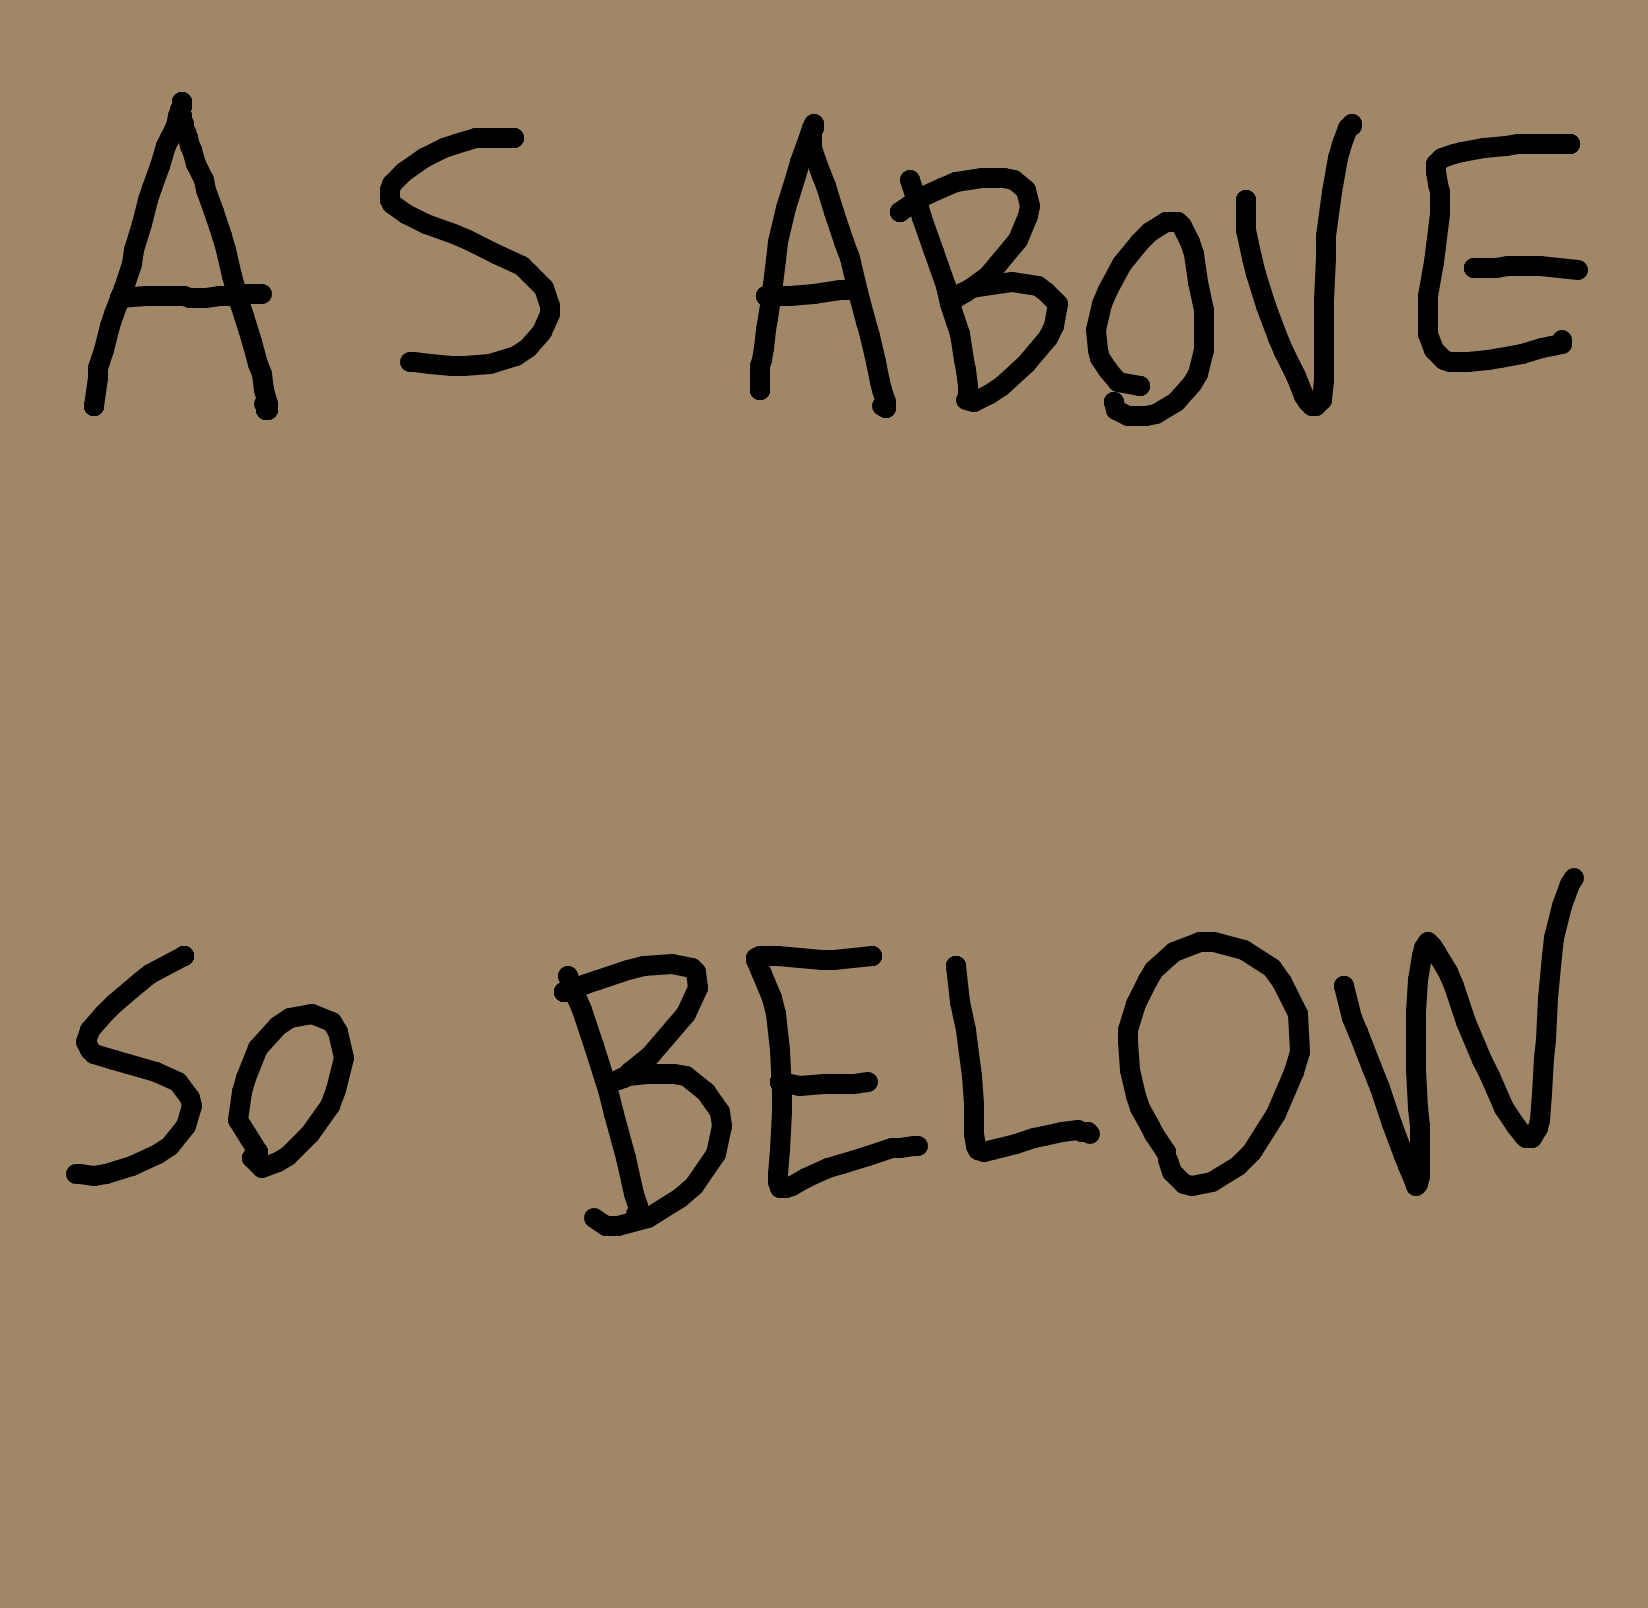
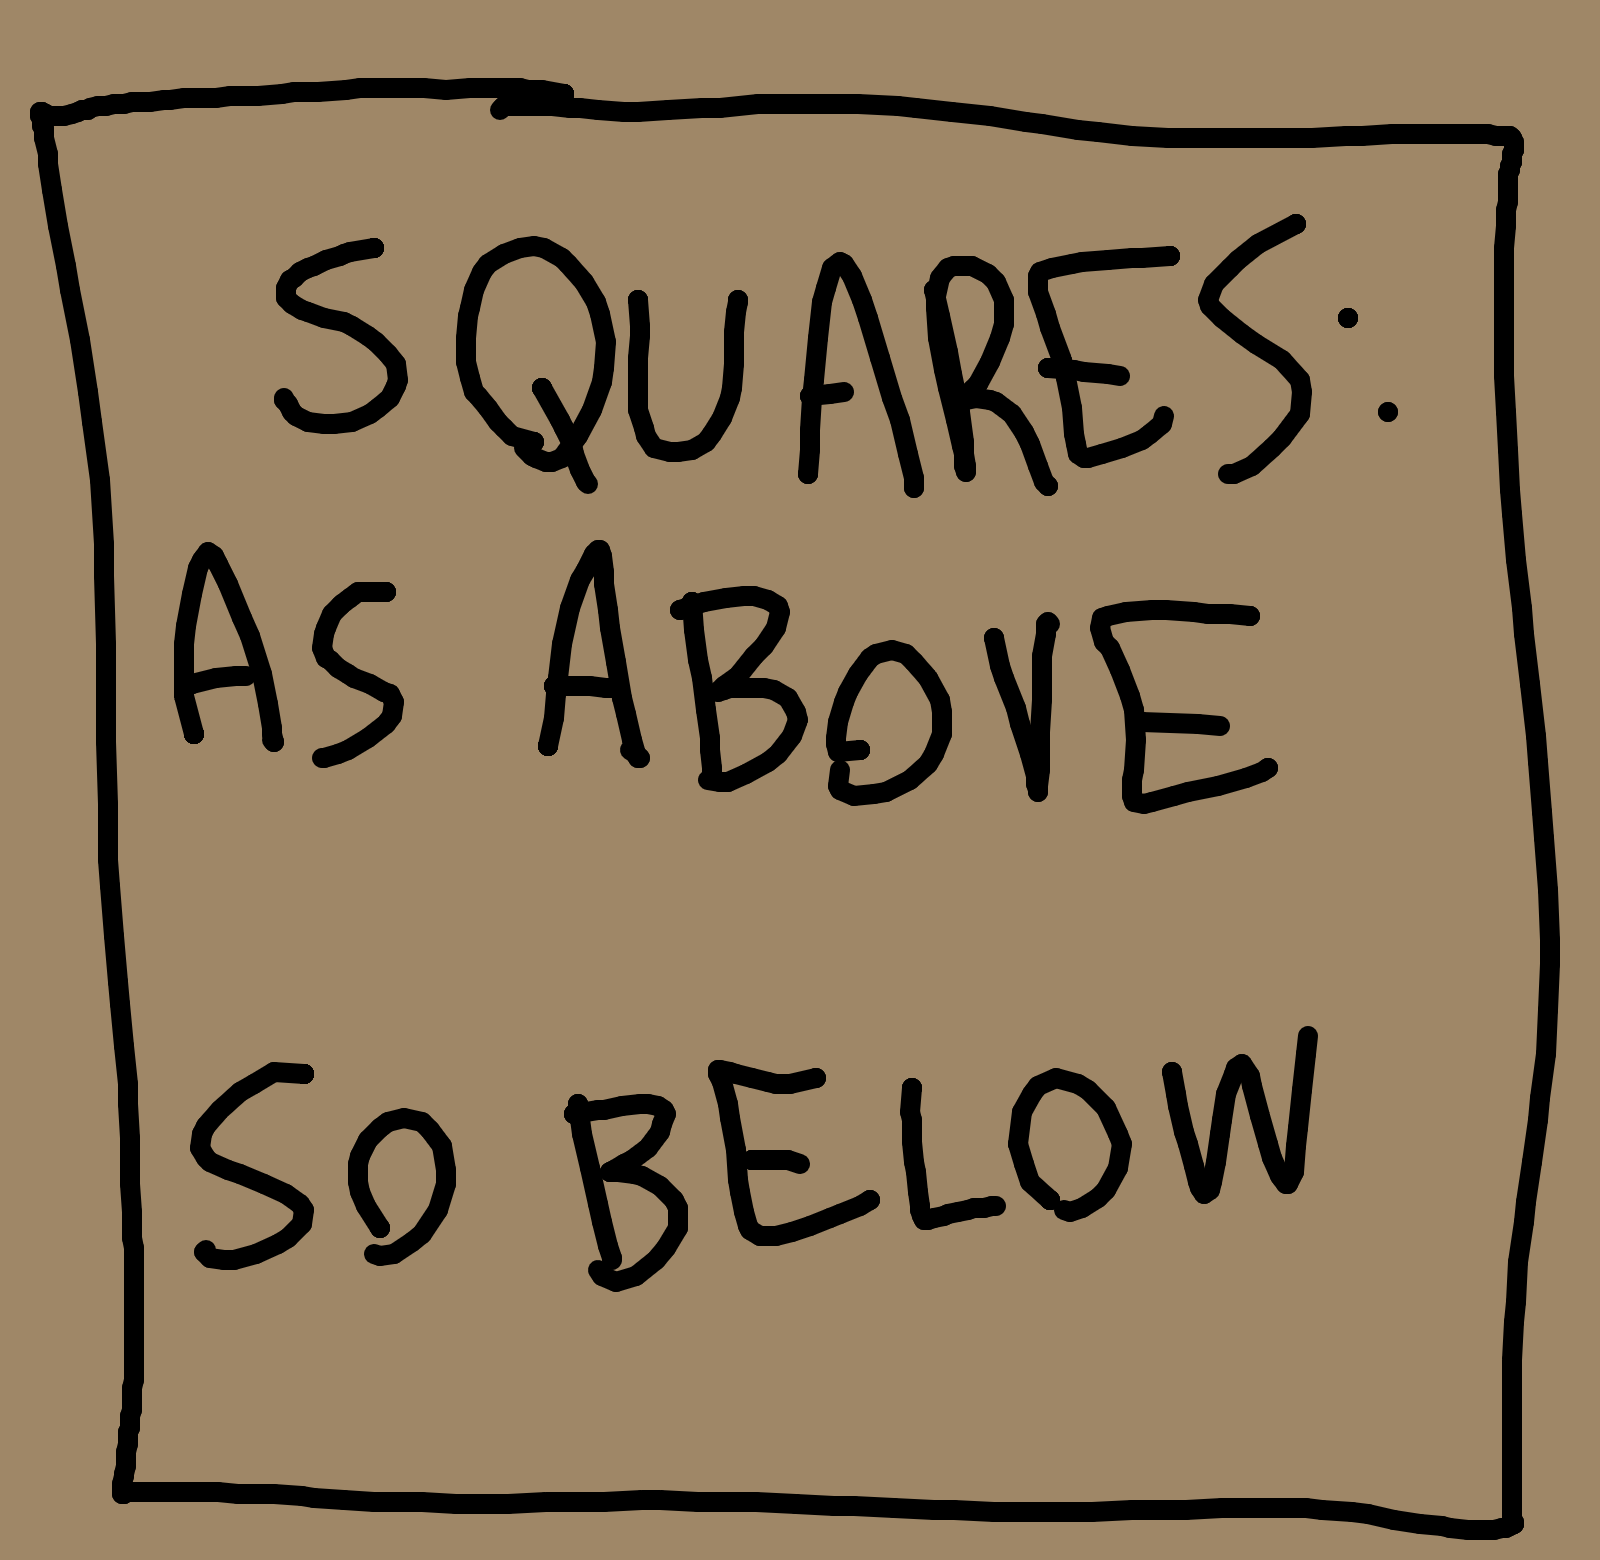
as above, so below

Changed region(s): [[0.0, 0.0308, 1.0, 1.0]]

diff --git a/README.md b/README.md
@@ -2,7 +2,14 @@
 
 ## As Above, so below.
 
-![image of cardboard square which reads "as above, so below"](https://raw.githubusercontent.com/LafeLabs/squares/main/trashmagic/square.png)
+ - [index.html](index.html)
+ - [http://localhost/](http://localhost/)
+ - [https://www.southbroadway.net](https://www.southbroadway.net)
+
+![screen shot of trash magic app which has handwriting reading "as abov, so below"](https://raw.githubusercontent.com/LafeLabs/squares/main/trashmagic/square-above.png)
+
+![image of cardboard square which reads "as above, so below"](https://raw.githubusercontent.com/LafeLabs/squares/main/trashmagic/square-below.png)
+
 
 Trash Magic Replicator url:
 
